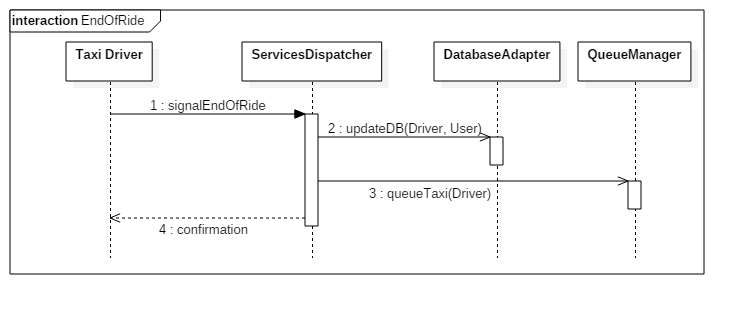
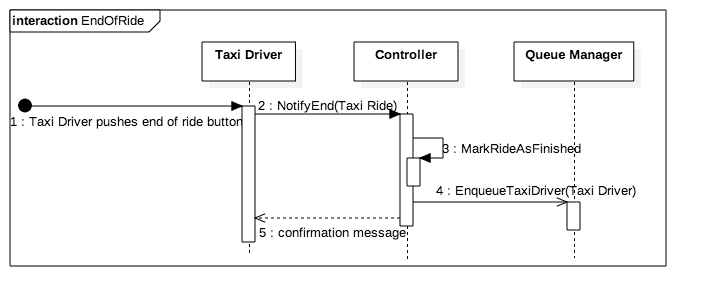
sequence diagram description

Changed region(s): [[0.0, 0.0, 0.966, 0.8824], [0.8102, 0.7353, 0.8414, 0.7647]]

diff --git a/srs/section_3/system_features/notify_problem.tex b/srs/section_3/system_features/notify_problem.tex
@@ -1,23 +1,35 @@
 \subsubsection{Notify Problem}
-%TODO: Cancel
+%TODO: Cancel, goals
 This feature is related to goal |, and to | use cases.
 \begin{itemize}
-	\itemBold{Actors} Registered passenger (referred as Adam for brevity).
-	\itemBold{Pre condition} Adam is logged to \myTaxiService{}.
-	\itemBold{Post condition} Adam is still logged to \myTaxiService{}.
+	\itemBold{Actors} Taxi Driver (referred as Amy for brevity) and Registerd Passenger (referred as Frank for brevity).
+	\itemBold{Pre condition} Amy is logged to \myTaxiService{}.
+	\itemBold{Post condition} Amy is still logged to \myTaxiService{} and her problem has been resolved.
 	\itemBold{Event Flow}
 	\begin{itemize}
-		\item Adam reaches either \myTaxiService{} mobile application or web page and logs in.
-		\item The system loads automatically into Adam's page all his taxi request and reservations into two separate lists.
+		\item Amy opens \myTaxiService{} mobile application.
+		\item The system loads automatically into Amy's page.
+		\item Amy decides to press the "Notify problem" button.
+		\item The system loads the dedicated screen.
+		\item Amy describes the problem using the dedicated text area.
+		\item Amy checks the combo box if the problem can be resolved without changing taxi.
+		\item Amy sends the report.
+		\item If the problem is not resolvable without changing taxi the system automatically creates e new taxi request.
+		\item The system puts it in the correct queue.
+		\item The system notify Amy that the service is finished.
+		\item The system waits for the first available taxi to join the request.
+		\item If the taxi is found Frank's interfaces is updated.
+		\item Else if the taxi is not found the system will notify Frank that no taxi can join his request.
+		\item Else if the system responds with the requested information and the ride can continue.
 	\end{itemize}
 	\itemBold{Exceptions}
 	\begin{itemize}
-		\item Adam's requests list is empty: an info message is displayed by the system in place of the empty list.
-		\item Adam's reservations list is empty: an info message is displayed by the system in place of the empty list.
+		\item Amy's smart phone connection goes down: she is notified to try again later.
+		\item The system crashes while is searching for a new taxi: Amy is notified with a notification message.
 	\end{itemize}
 \end{itemize}
 \paragraph{Description and Priority}
-This feature is of medium priority, it is not essential for the system to be, but can increase by far the overall usability of \myTaxiService{} for registered passengers.\par
+This feature is of high priority for the service to be. In fact without this feature the taxi driver could not handle all the problems and the final offered service will not be the best one.
 \paragraph{Functional Requirements}
 \begin{itemize}
 	%TODO Fare
@@ -25,10 +37,7 @@ This feature is of medium priority, it is not essential for the system to be, bu
 \end{itemize}
 \paragraph{Scenarios}
 \begin{itemize}
-	\item Lucas is using \myTaxiService{} in his web browser and has logged in a moment ago.
-	He is now in front of all his requests and reservations, and he can view all the informations he need.
-	%TODO Quali informazioni?
-	%TODO C'è uno storico?
+	\item Amy is taking Frank to the other part of the city. They are talking about Mauro Icardi's last goal when the car stops with no advice. \par Amy tries to turn it on but she can't. Then she takes her phone and reports the problem to the central back-end specifying that the problem is not solvable. \par The report is processed and the system sends Amy a notification saying that a new taxi is coming. \par Amy waits till the taxi arrived, greets Frank and they gather at the stadium. Frank takes the new taxi and heads to his destination.
 \end{itemize}
 \paragraph{UML Diagrams}
 \subparagraph{UML Sequence Diagram}

diff --git a/srs/section_3/system_features/end_of_ride.tex b/srs/section_3/system_features/end_of_ride.tex
@@ -1,23 +1,27 @@
 \subsubsection{End Of Ride}
-%TODO: Cancel
+%TODO: Cancel, goals
 This feature is related to goal |, and to | use cases.
 \begin{itemize}
-	\itemBold{Actors} Registered passenger (referred as Adam for brevity).
-	\itemBold{Pre condition} Adam is logged to \myTaxiService{}.
-	\itemBold{Post condition} Adam is still logged to \myTaxiService{}.
+	\itemBold{Actors} Taxi Driver (referred as Bill for brevity).
+	\itemBold{Pre condition} Bill is logged to \myTaxiService{} and has finished his taxi ride.
+	\itemBold{Post condition} Bill is still logged to \myTaxiService{} and is able to join a new taxi ride.
 	\itemBold{Event Flow}
 	\begin{itemize}
-		\item Adam reaches either \myTaxiService{} mobile application or web page and logs in.
-		\item The system loads automatically into Adam's page all his taxi request and reservations into two separate lists.
+		\item Bill opens \myTaxiService{} mobile application.
+		\item The system loads automatically into Bill's page.
+		\item Bill sees the "Current Ride" area populated.
+		\item Bill pushes the "Notify End Of Ride" button.
+		\item The system marks the ride as terminated.
+		\item The system enqueues Bill to the queue of the zone in which the destination address is located, using the Location Manager service.
+		\item Bill receives a message about the confirmation of the termination of the ride. 
 	\end{itemize}
 	\itemBold{Exceptions}
 	\begin{itemize}
-		\item Adam's requests list is empty: an info message is displayed by the system in place of the empty list.
-		\item Adam's reservations list is empty: an info message is displayed by the system in place of the empty list.
+		\item Bill's smart phone connection goes down: she is notified to try again later.
 	\end{itemize}
 \end{itemize}
 \paragraph{Description and Priority}
-This feature is of medium priority, it is not essential for the system to be, but can increase by far the overall usability of \myTaxiService{} for registered passengers.\par
+This feature is of high priority, it is essential for the system to be: in fact without this feature the ride can't be completely handled and the system will never know when a ride is finished.\par In addition Bill can't accept another ride if he doesn't complete his current one.
 \paragraph{Functional Requirements}
 \begin{itemize}
 	%TODO Fare
@@ -25,10 +29,7 @@ This feature is of medium priority, it is not essential for the system to be, bu
 \end{itemize}
 \paragraph{Scenarios}
 \begin{itemize}
-	\item Lucas is using \myTaxiService{} in his web browser and has logged in a moment ago.
-	He is now in front of all his requests and reservations, and he can view all the informations he need.
-	%TODO Quali informazioni?
-	%TODO C'è uno storico?
+	\item Bill is arrived at the destination of his current ride. So the RP goes down from the taxi and, after he has paid, Bill has to notify he has completed his current request. \par So he holds his smart phone, he selects \myTaxiService{} mobile application and once he is logged in he holds the "Notify End Of Ride" button. \par He waits some seconds and the system responds him with the confirmation message.
 \end{itemize}
 \paragraph{UML Diagrams}
 \subparagraph{UML Sequence Diagram}

diff --git a/srs/section_3/system_features/handle_profile.tex b/srs/section_3/system_features/handle_profile.tex
@@ -1,10 +1,10 @@
 \subsubsection{Handle Personal Profile}
-%TODO: Cancel
+%TODO: Cancel, goals
 This feature is related to goal |, and to | use cases.
 \begin{itemize}
 	\itemBold{Actors} Registered passenger (referred as James for brevity).
 	\itemBold{Pre condition} James is logged to \myTaxiService{}.
-	\itemBold{Post condition} James's personal information are now updated.
+	\itemBold{Post condition} James is still logged to \myTaxiService{} and his personal information are now updated.
 	\itemBold{Event Flow}
 	\begin{itemize}
 		\item James reaches either \myTaxiService{} mobile application or web page and logs in.
@@ -17,8 +17,8 @@ This feature is related to goal |, and to | use cases.
 	\end{itemize}
 	\itemBold{Exceptions}
 	\begin{itemize}
-		\item Adam's requests list is empty: an info message is displayed by the system in place of the empty list.
-		\item Adam's reservations list is empty: an info message is displayed by the system in place of the empty list.
+		\item James inserts incorrect informations: the system sends a notification message.
+		\item James's smart phone connection goes down: she is notified to try again later.
 	\end{itemize}
 \end{itemize}
 \paragraph{Description and Priority}
@@ -30,10 +30,7 @@ This feature is of medium priority, it is not essential for the system to be, bu
 \end{itemize}
 \paragraph{Scenarios}
 \begin{itemize}
-	\item Lucas is using \myTaxiService{} in his web browser and has logged in a moment ago.
-	He is now in front of all his requests and reservations, and he can view all the informations he need.
-	%TODO Quali informazioni?
-	%TODO C'è uno storico?
+	\item James is waiting for his taxi and is navigating \myTaxiService{} application. \par He sees the modify profile button and he decides to change his credentials updating his email with one more used.
 \end{itemize}
 \paragraph{UML Diagrams}
 \subparagraph{UML Sequence Diagram}

diff --git a/srs/section_3/system_features/view_requests_reservations.tex b/srs/section_3/system_features/view_requests_reservations.tex
@@ -14,6 +14,7 @@ This feature is related to goal \textbf{G5}, \textbf{G6}, \textbf{G7} and \textb
 	\begin{itemize}
 		\item Adam's requests list is empty: an info message is displayed by the system in place of the empty list.
 		\item Adam's reservations list is empty: an info message is displayed by the system in place of the empty list.
+		\item Adam's smart phone connection goes down: she is notified to try again later.
 	\end{itemize}
 \end{itemize}
 \paragraph{Description and Priority}

diff --git a/srs/section_3/system_features/reserve_ride.tex b/srs/section_3/system_features/reserve_ride.tex
@@ -19,7 +19,7 @@ This feature is related to goal |, and to | use cases.
 	\itemBold{Exceptions}
 	\begin{itemize}
 		\item Dylan provides incorrect information in the reservation form: he has to reinsert the informations.
-		\item Dylan smart phone's connection goes down: he is notified to try again later.  
+		\item Dylan's smart phone connection goes down: he is notified to try again later.  
 	\end{itemize}
 \end{itemize}
 \paragraph{Description and Priority}

diff --git a/srs/section_3/system_features/request_ride.tex b/srs/section_3/system_features/request_ride.tex
@@ -19,7 +19,7 @@ This feature is related to goal |, and to | use cases.
 	\itemBold{Exceptions}
 	\begin{itemize}
 		\item Sarah provides incorrect information in the request form: she has to reinsert the informations.
-		\item Sarah smart phone's connection goes down: she is notified to try again later.
+		\item Sarah's smart phone connection goes down: she is notified to try again later.
 	\end{itemize}
 \end{itemize}
 \paragraph{Description and Priority}
